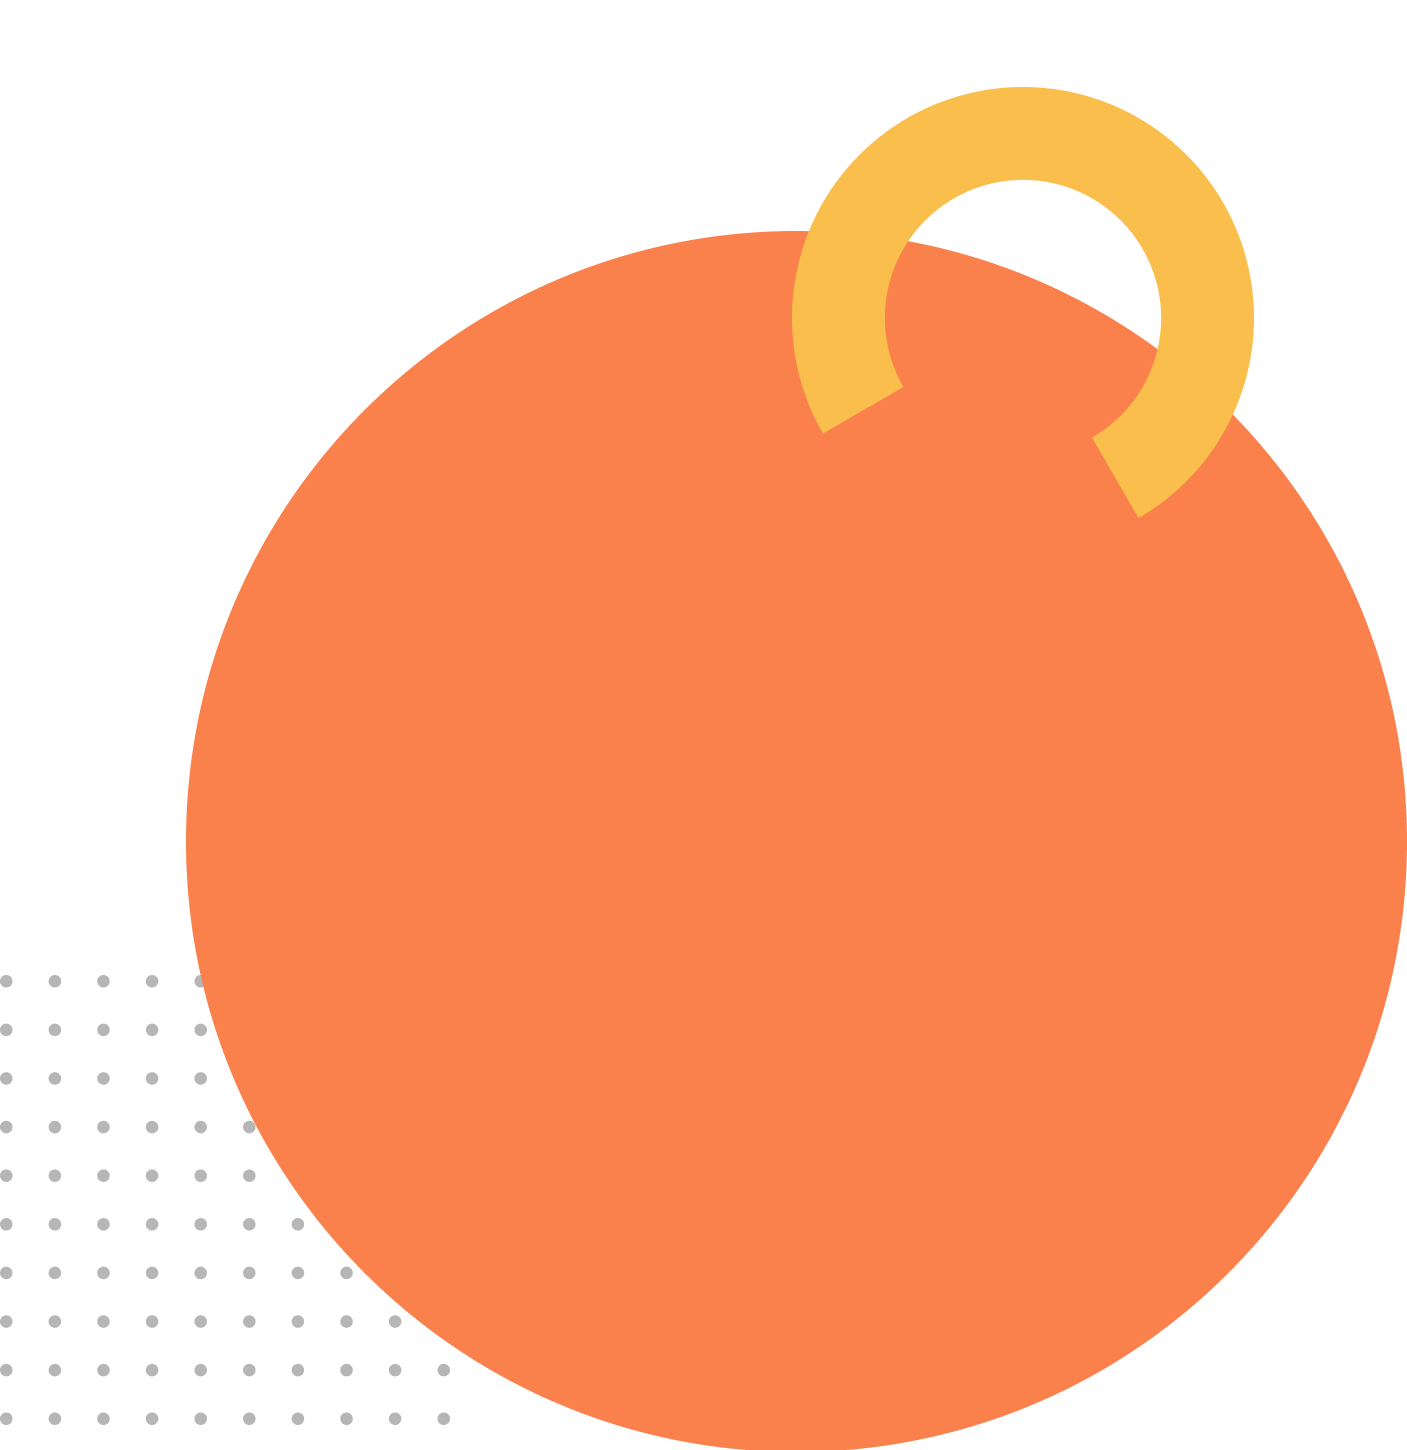
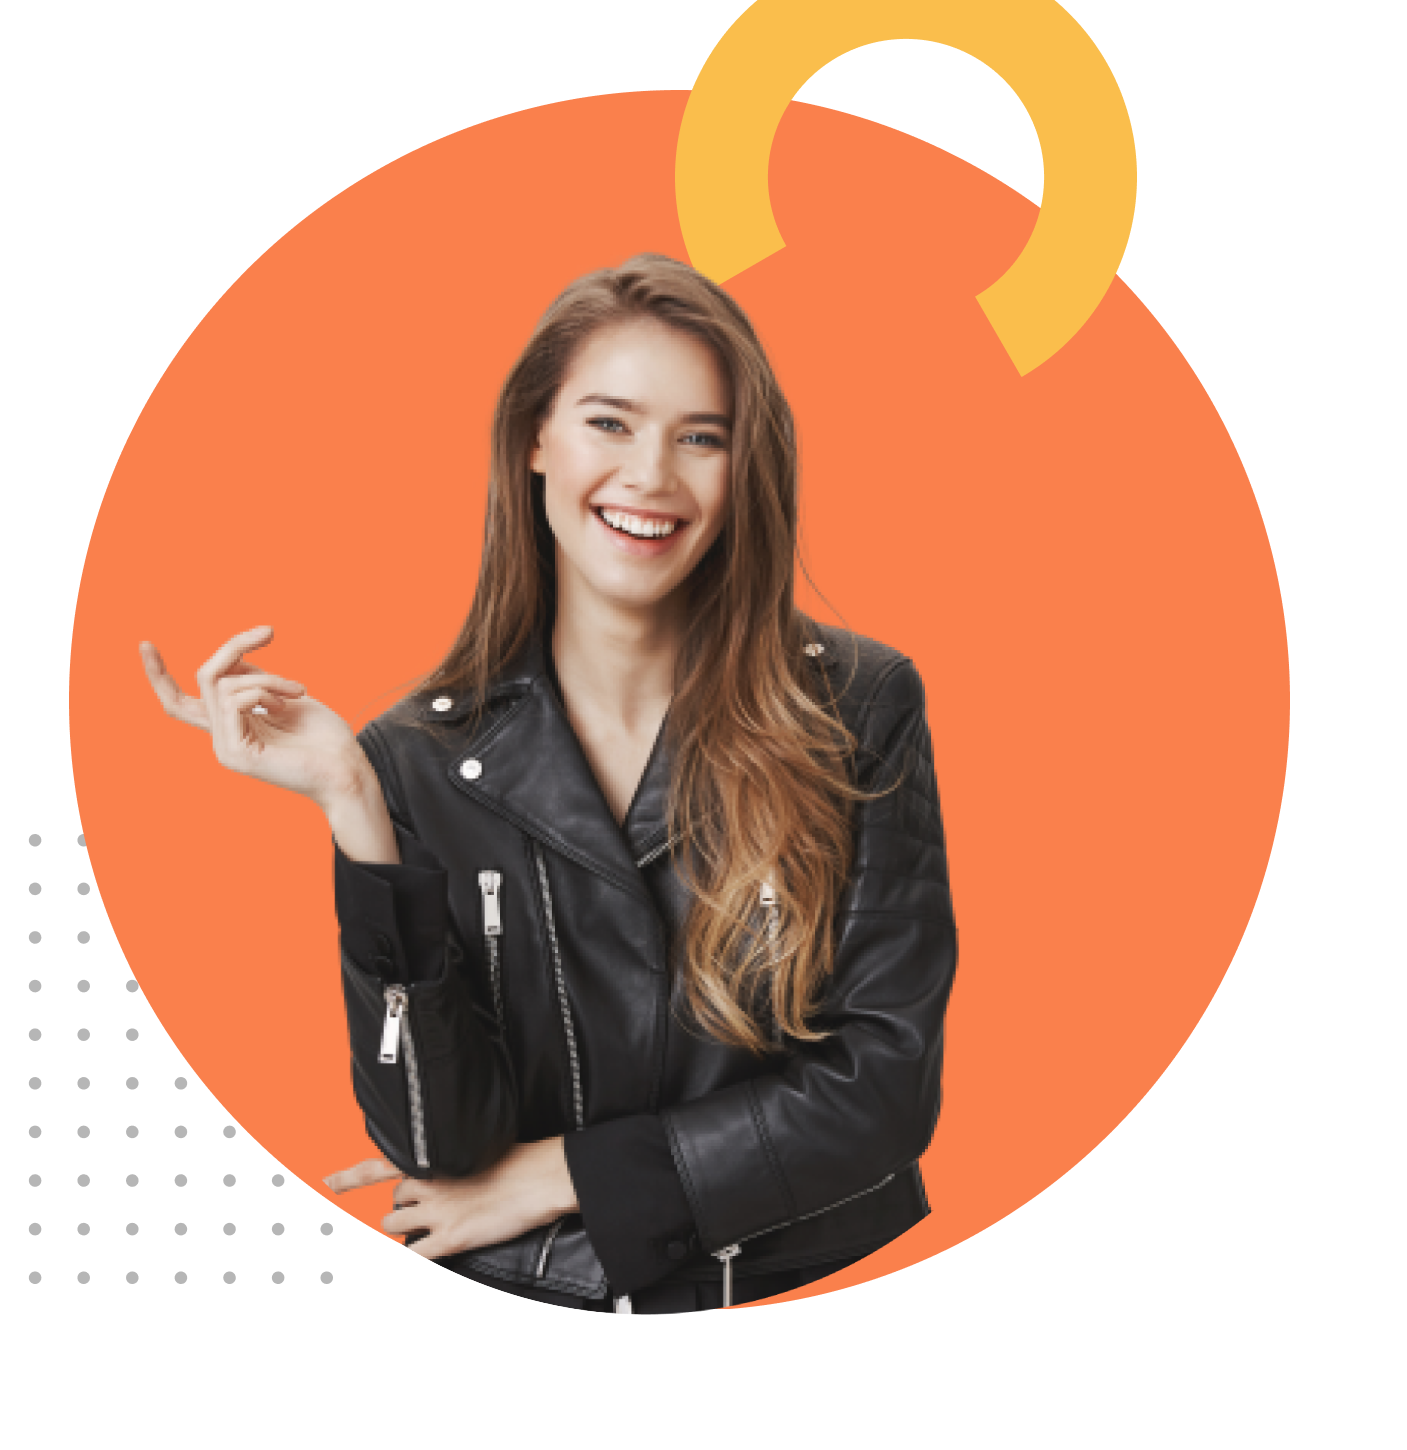
--- Auto-Git Commit ---

diff --git a/index.html b/index.html
@@ -52,7 +52,7 @@
                 <p>Lorem ipsum dolor sit amet consectetur adipisicing elit. Nulla harum reiciendis odit expedita, delectus aliquid.</p>
                 <button type="button" class="btn btn-success">Success</button>
               </div>
-              <div class="col-7"><img src="images/Group 33091.png" class="d-block w-100" alt="..."></div>
+              <div class="col-7"><img src="images/Group 33102.png" class="d-block w-100" alt="..."></div>
             </div>
           </div>
           
@@ -61,7 +61,7 @@
      </header>
      <!--header end-->
 
-     <main class="bag-card card container">
+     <main class="bag-card card container p-5">
      
       
       <div class="women">
